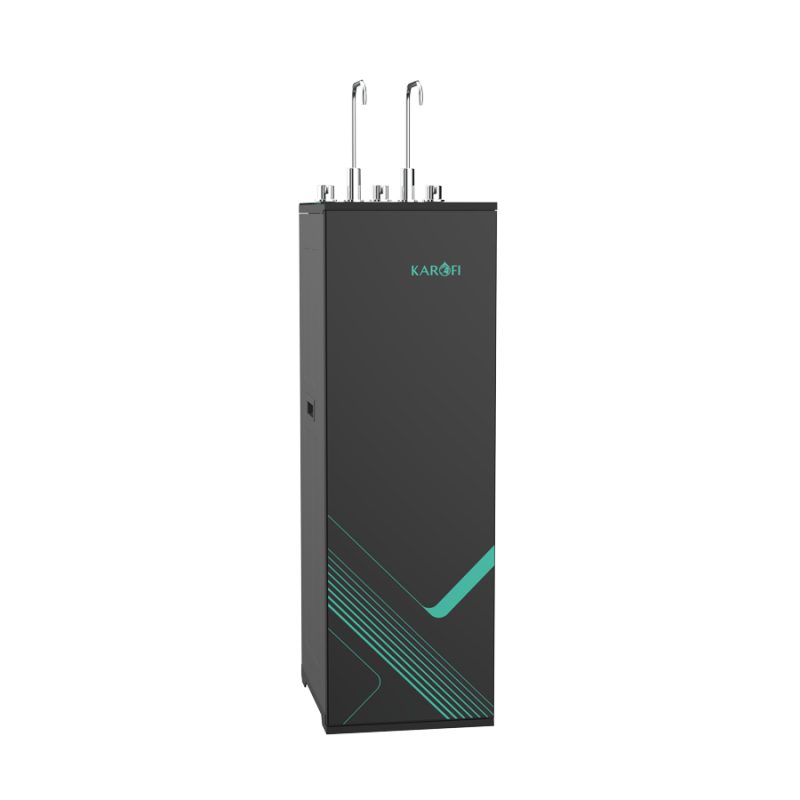
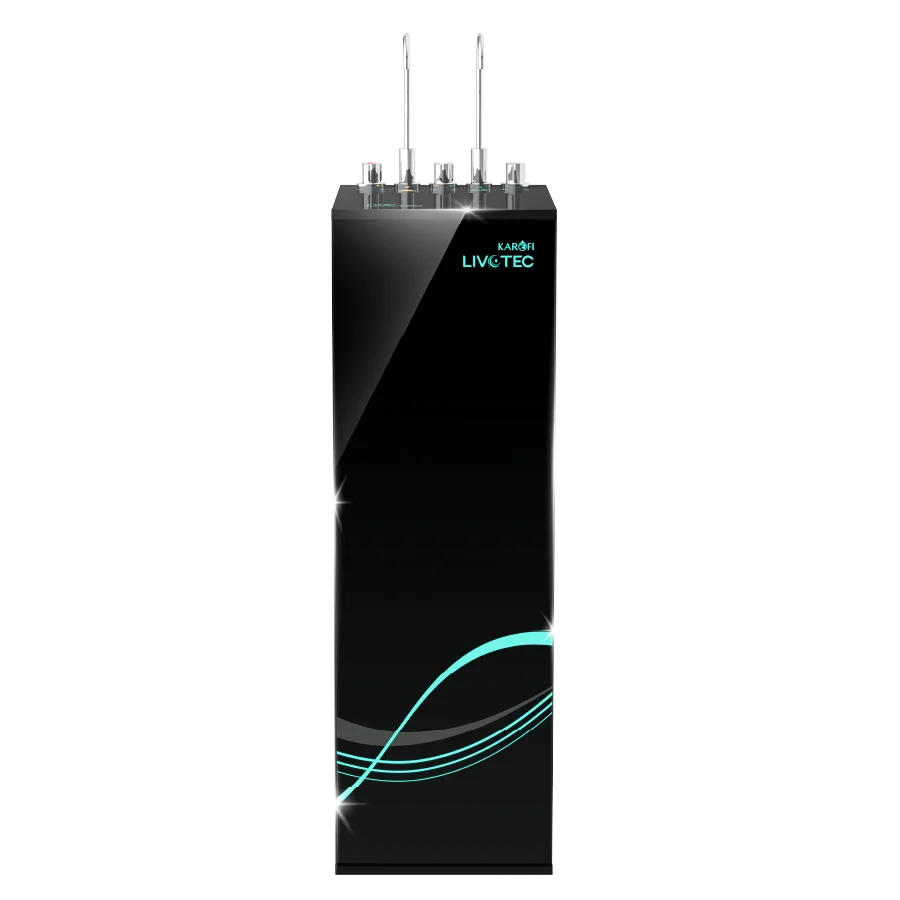
update index 9

Changed region(s): [[0.3438, 0.0312, 0.625, 1.0]]

diff --git a/index.html b/index.html
@@ -237,13 +237,13 @@
 
     <!-- Badge -->
     <div class="absolute top-3 left-3 z-10 bg-cyan-500 text-white text-xs font-bold px-3 py-1 rounded-full shadow-lg">
-      CAO CẤP
+      HOT SALE
     </div>
 
     <img 
       class="w-full h-full object-cover group-hover:scale-110 transition-transform duration-700"
       src="/img/trangchu/sanpham/m68.png"
-      alt="Máy lọc nước nóng lạnh Karofi KAD-M68"
+      alt="Máy lọc nước nóng lạnh Livotec 612"
     />
 
     <!-- Overlay -->
@@ -257,11 +257,11 @@
     <div>
 
       <p class="text-blue-600 text-xs font-bold uppercase tracking-[0.2em] mb-2">
-        Karofi Chính Hãng
+        Livotec Chính Hãng
       </p>
 
       <h3 class="text-lg font-extrabold leading-snug text-slate-800 group-hover:text-blue-600 transition-colors">
-        Máy lọc nước nóng lạnh Karofi KAD-M68
+        Máy lọc nước nóng lạnh Livotec 612
       </h3>
 
     </div>
@@ -271,37 +271,37 @@
 
       <li class="flex items-start gap-2">
         <span class="text-blue-500 font-bold">✓</span>
-        Công nghệ làm lạnh Block & bình lạnh Smax: lạnh nhanh, lạnh sâu
+        3 chức năng: Nóng - Lạnh - Lọc tiện lợi cho gia đình
       </li>
 
       <li class="flex items-start gap-2">
         <span class="text-blue-500 font-bold">✓</span>
-        11 lõi lọc công nghệ Smax: gấp 2 hiệu suất, gấp 2 tuổi thọ
+        Tiết kiệm điện năng đến 30% với công nghệ bảo vệ nhiệt đa lớp
       </li>
 
       <li class="flex items-start gap-2">
         <span class="text-blue-500 font-bold">✓</span>
-        Màng RO 50 GPD thay nhanh sản xuất tại Mỹ
+        Hệ thống 10 lõi lọc hiệu suất cao cho nguồn nước tinh khiết
       </li>
 
       <li class="flex items-start gap-2">
         <span class="text-blue-500 font-bold">✓</span>
-        Hệ lõi Smax Pro V: gấp 3 diện tích tiếp xúc, gấp 2 hiệu quả lọc
+        Màng lọc RO chuẩn Hàn Quốc lọc sạch tạp chất & kim loại nặng
       </li>
 
       <li class="flex items-start gap-2">
         <span class="text-blue-500 font-bold">✓</span>
-        Cụm chức năng HP 6.0 bổ sung vi khoáng & Hydrogen Plus
+        Lõi Nano Silver giúp chống tái nhiễm khuẩn nước đầu ra
       </li>
 
       <li class="flex items-start gap-2">
         <span class="text-blue-500 font-bold">✓</span>
-        Nước sau lọc đạt chuẩn QCVN 6-1:2010/BYT
+        Thiết kế tủ kính tràn viền sang trọng, hiện đại
       </li>
 
       <li class="flex items-start gap-2">
         <span class="text-blue-500 font-bold">✓</span>
-        Bảo hành chính hãng 36 tháng
+        Bảo hành chính hãng lên đến 36 tháng
       </li>
 
     </ul>
@@ -345,17 +345,17 @@
       <div>
 
         <p class="text-sm text-slate-400 line-through">
-        14.630.000
+          9.320.000đ
         </p>
 
         <div class="flex items-center gap-2">
 
           <span class="text-red-500 font-extrabold text-2xl">
-            8.900.000đ
+            6.950.000đ
           </span>
 
           <span class="bg-red-100 text-red-500 text-xs font-bold px-2 py-1 rounded-full">
-            -17%
+            -39%
           </span>
 
         </div>
@@ -363,17 +363,17 @@
       </div>
 
       <!-- Button -->
-       <a 
-  href="https://www.facebook.com/locnuocthanhhien"
-  target="_blank"
-  class="w-12 h-12 rounded-full bg-blue-600 text-white flex items-center justify-center hover:scale-110 hover:bg-blue-700 transition-all shadow-lg"
->
+      <a 
+        href="https://www.facebook.com/locnuocthanhhien"
+        target="_blank"
+        class="w-12 h-12 rounded-full bg-blue-600 text-white flex items-center justify-center hover:scale-110 hover:bg-blue-700 transition-all shadow-lg"
+      >
 
-  <span class="material-symbols-outlined">
-    shopping_cart
-  </span>
+        <span class="material-symbols-outlined">
+          shopping_cart
+        </span>
 
-</a>
+      </a>
 
     </div>
 
@@ -388,7 +388,7 @@
 
     <!-- Badge -->
     <div class="absolute top-3 left-3 z-10 bg-blue-600 text-white text-xs font-bold px-3 py-1 rounded-full shadow-lg">
-      HOT SALE
+      CAO CẤP
     </div>
 
     <img 